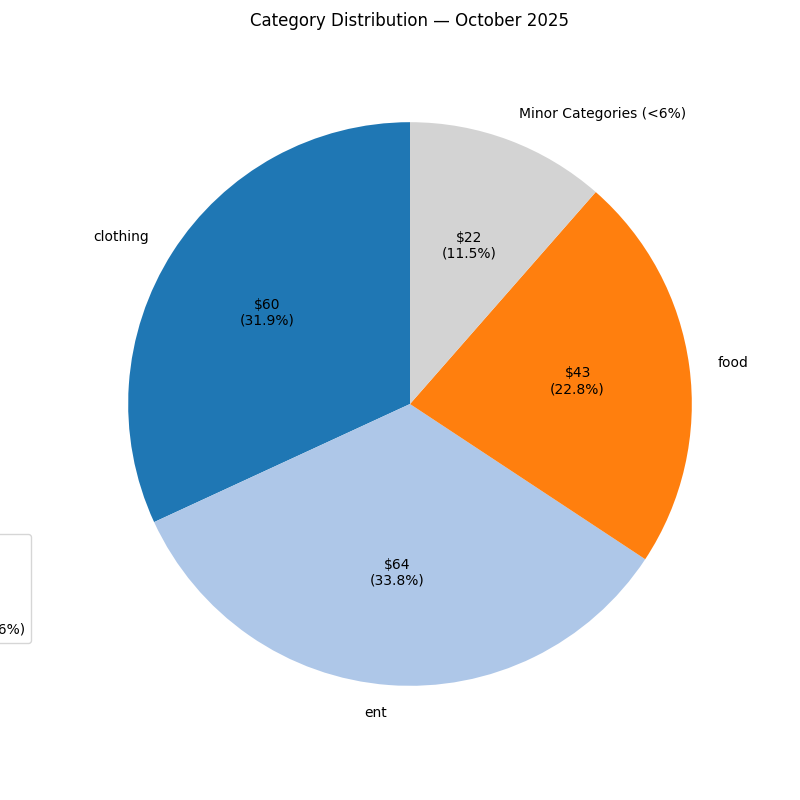
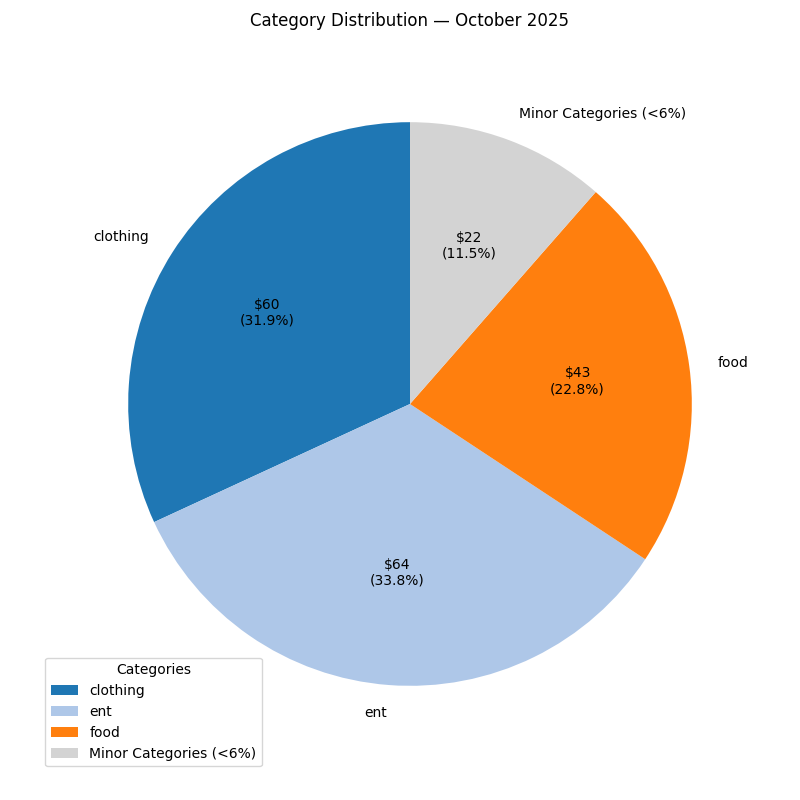
Accurate legend position for pie chart

Changed region(s): [[0.0625, 0.8125, 0.3125, 0.9688], [0.0, 0.7812, 0.0312, 0.8125]]

diff --git a/charts.py b/charts.py
@@ -166,7 +166,7 @@ def Monthly_spending_Category_pie(Expenses, year: int, month: int, threshold_per
 
     plt.title(f"Category Distribution — {datetime(year, month, 1).strftime('%B %Y')}", y=1.10)
     plt.axis("equal")
-    plt.legend(merged_labels, title="Categories", loc="best", bbox_to_anchor=(-0.1, 0.3))
+    plt.legend(merged_labels, title="Categories", loc="center left", bbox_to_anchor=(-0.1, 0))
 
 
     #  Save to file
